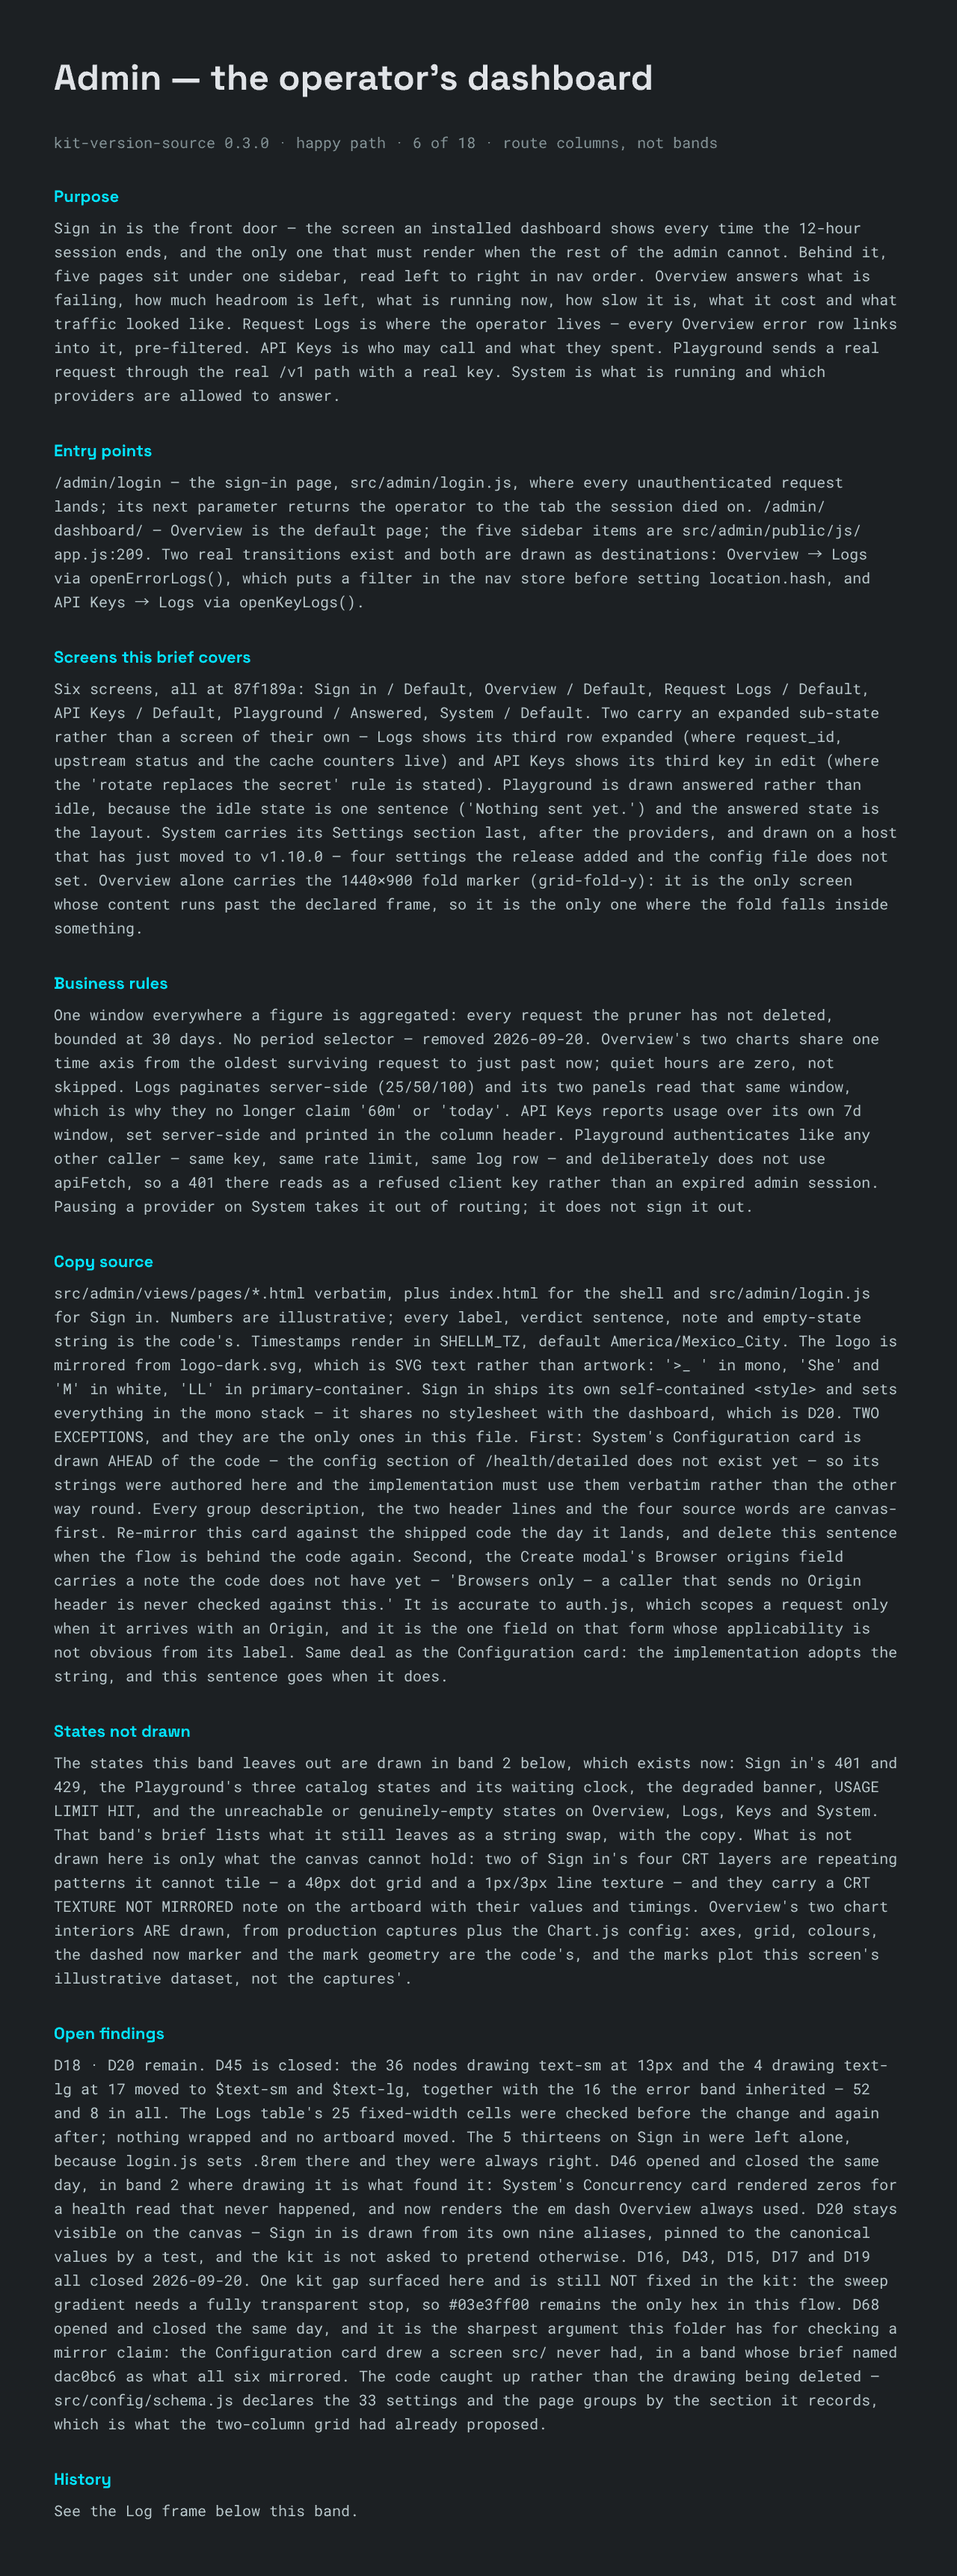
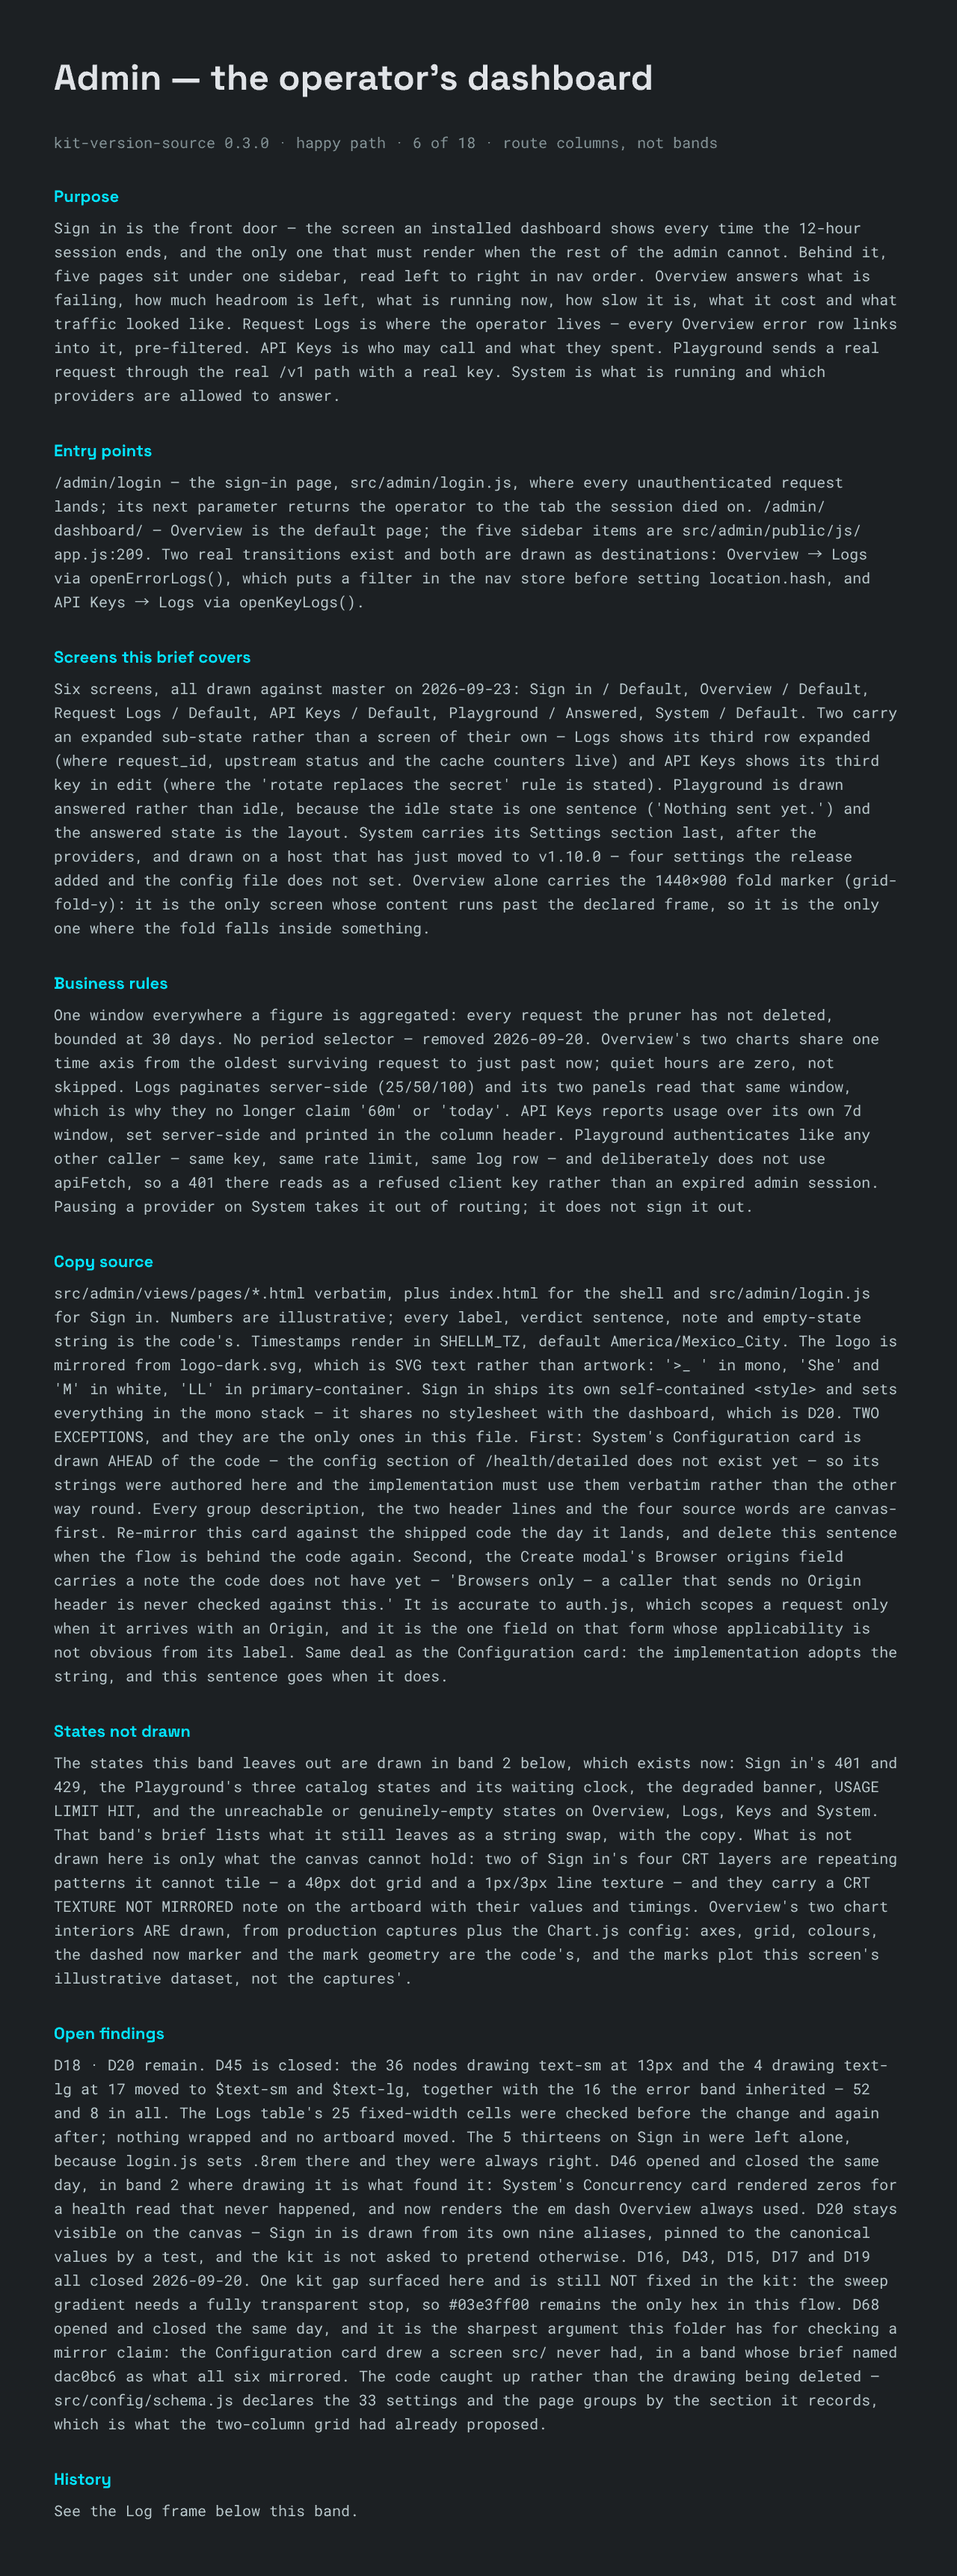
design(admin): anchor briefs to a date, and close D69
The brief named the commit its six artboards mirror. That SHA no longer exists:
this repository merges with rebase, so every branch commit is replayed under a
new id as it lands. `git merge-base --is-ancestor 87f189a master` fails, and the
commit is `da82b3c` now.

It is D68's own lesson turned on the file that recorded it, and it was not a
mistake anyone made — it is guaranteed for every design PR that names a SHA.

Briefs anchor to a date. `git log --before=<date> master` recovers the state a
date means, and a date cannot be rewritten. Naming the release was rejected: the
artboards mirror master, which runs ahead of the last tag for most of a cycle,
so citing v1.10.0 today would claim the boards match code that release does not
contain. Updating the SHA after the merge was rejected too — it works, and it
adds a post-merge step to every design PR, which is the kind of step that gets
forgotten.

The convention was implicit in the brief's own prose until now. It is written
down in design/README.md, next to the two rules it sits beside.

Changed region(s): [[0.0625, 0.2485, 0.9375, 0.3728]]

diff --git a/design/DECISIONS.md b/design/DECISIONS.md
@@ -4,7 +4,7 @@
 > notes in `ui-kit.lib.pen` cite these by number. Keep entries after resolution — record the
 > outcome instead of deleting; the reasoning is the useful part.
 
-**Status:** 21 entries · 18 resolved · 3 open · 0 🔴 high-impact · 0 🐞 unfiled bugs.
+**Status:** 22 entries · 19 resolved · 3 open · 0 🔴 high-impact · 0 🐞 unfiled bugs.
 
 **The registry collided with itself on 2026-09-20, and this is the repair.** Two documents
 claimed `D30` and `D31` the same day for different findings: the design audit's second pass took
@@ -74,6 +74,8 @@ that doc tracks landing them.
 | **D67** ⏳ | The admin has no legible disabled treatment for **text**, and the one it has reads as ordinary secondary copy. `text-outline/30` — what the Logs refresh button uses while loading ([`logs.html:52`](../src/admin/views/pages/logs.html#L52)) — resolves to roughly `#3b4346` on `surface-container`, about **1.75:1**. Fine for a glyph whose only job is to look inert; unusable for a value someone still has to read. The nearest token, `outline-variant` `#3b494c`, measures the same. | Measured 2026-09-23 while drawing the auto-refresh held state, where the interval value must stay readable *because* it is the setting that is not currently running. `outline` `#849397` on `surface-container` is **5.15:1** and passes AA, but it is also the default colour of every secondary string on the page, so on its own it signals nothing — confirmed by exporting the board and being unable to tell the two states apart. | ⏳ Open as a kit question, not a bug: nothing shipped is wrong, and WCAG exempts disabled controls anyway. What is missing is a token between `outline` and `outline-variant` for "this control is legible but not currently doing anything". The proposal band works around it with a `pause` glyph rather than a colour, which is arguably the better answer and makes the token optional. Worth deciding before a second surface needs the same state. |
 
 | **D68** ✅ | The `Configuration card` on `System / Default` drew a screen the code never had. It was not a mirror and it was not a labelled proposal — and the legend under it, *"an untagged value is the shipped default · file = `~/.config/shellm/env`"*, was `sourceOf()` drawn before any code could compute it. | Measured 2026-09-23. `git show dac0bc6:src/admin/views/pages/system.html` — the commit the band’s brief named as what all six screens mirror — carries `Build` and `Concurrency` and no third section. `git log -S "Configuration" -- src/admin/views/pages/system.html` returns no commit, so it never shipped in any release. `CODE_CHANGES.md` read *"No consolidation has been decided yet"*, so it was not tracked as pending either. The card entered in `4c8bfb3`, the same day, in a commit titled *"draw what the origins merge shipped"*. | ✅ **Closed 2026-09-23 by building it, not by deleting the drawing.** `src/config/schema.js` now declares all 33 settings with the `section` each belongs to, and the page groups by it exactly as the two-column grid proposed — the design’s answer was the better one and the code adopted it. Four things changed on canvas to match what shipped: one full-width column instead of two; all 33 rows instead of 24, because a secret is masked rather than omitted and a mask still says whether it is set and from where; five columns, since the schema made `source`, `since` and `reload` computable; and the card moved below the providers, because settings are reference data and whether claude and codex answer is what the page is opened for. The brief now names `7caf4b9`. **The transferable lesson is about the claim, not the card:** a brief that names a commit is asserting something checkable, and nothing checked it for three days. |
+
+| **D69** ✅ | A brief that names the commit its artboards mirror is wrong the moment the branch merges. `admin.pen` said *"all at `87f189a`"*; that SHA does not exist on `master`. | Measured 2026-09-23, minutes after the merge: `git merge-base --is-ancestor 87f189a master` fails, and the commit is now `da82b3c`. The repository merges with **rebase**, which replays every branch commit under a new id, so this is not a mistake anyone made — it is guaranteed for every design PR that names a SHA, including the one that closed **D68** for exactly this class of defect. | ✅ **Closed 2026-09-23. Briefs anchor to a date.** `git log --before=<date> master` recovers the state a date means, and a date cannot be rewritten. Two alternatives were rejected: naming the **release** is false for most of a cycle, because the artboards mirror `master` and `master` runs ahead of the last tag — citing `v1.10.0` today would claim the boards match code that release does not contain; and updating the SHA **after** the merge works but adds a post-merge touch-up to every design PR, which is the kind of step that gets forgotten, which is how this broke. The convention was implicit in the brief’s own prose until now and is written down in [README.md](README.md). The cost is honest: a date is a weaker claim than a SHA, and that is the price of a linear history. |
 | **D48** ✅ | Should the degraded banner animate in or out, and does that finally give `--ease-exit` a user? the motion audit predicted it would: *"exit lands with the error band — the first thing that will actually need it"*. Drawing the band is what made the question askable. | Measured in Chromium at 1440×900 against the running admin, 2026-09-20. The band is 48px + 24px margin = **72px of displacement**, inserted in one frame. Mid-page, `overflow-anchor` absorbs it completely — `scrollY` 500→572 with the tracked element unmoved at 390. At `scrollY` 0 it is one discrete 72px jump, and **every navigation lands there**, because `show()` calls `window.scrollTo(0, 0)` ([`app.js:224`](../src/admin/public/js/app.js#L224)) | ❌ **Rejected, both directions.** A prototyped 200ms height entrance was watched at `scrollY` 0: **three different table rows pass under one fixed screen point during the run** — motion may not move a target the operator is aiming at, and this is the surface whose job is reading numbers. The cheaper forms do not survive either: opacity or transform alone leaves the 72px reflow instant, so nothing is prevented and only decoration is left. Exit fails earlier, on purpose rather than on function: it would hold *"Nothing below is being updated"* on screen for 150–200ms **after it stopped being true**, which on this product is a small lie with a curve on it. Two independent secondary kills: the band is already present at first render when the page cold-loads with the gateway down, so an entrance would ramp a state that predates the page — D21's exact defect; and a measured 151ms on/off flash (two 30s pollers feeding a last-write-wins `reportRead`) becomes a visible stutter instead of a blink. **Cost of rejecting: nothing measurable.** `--ease-exit` stays undeclared, and the audit's prediction is corrected in place rather than deleted — the band is removed from flow, which is a reflow, not a departure. **Left open deliberately, and it is a layout question, not a motion one:** the 72px snap at `scrollY` 0 is a genuine defect. Reserve the slot, take the band out of flow the way the sidebar health readout already is, or accept it as one frame once per incident. Flagged for a `ui-review` pass, not decided here. |
 
 ## Real app bugs — logged here until filed on the board
@@ -175,5 +177,5 @@ is what the next decision needs.
 | D59 | `design/README.md` says this surface does not exist | Landed |
 | D60 | The API reference's logo fills the sidebar and lands on the home link | Landed in two parts — geometry, then the duplicate mark it left behind |
 
-**Next free number: D69.** D15–D20, D43–D49 and D61–D67 are this file's own and are above; D50–D60
+**Next free number: D70.** D15–D20, D43–D49 and D61–D67 are this file's own and are above; D50–D60
 are spent by the landing audit.

diff --git a/design/README.md b/design/README.md
@@ -3,6 +3,12 @@
 Everything about SheLLM's visual design — the admin dashboard — lives here. Read this before touching a `.pen`. It doubles
 as context for AI agents (`AGENTS.md` points them here).
 
+**A brief anchors to a date, never to a commit.** This repository merges with rebase, so every
+SHA a branch commit cites is rewritten the moment it lands — a brief that named one was wrong
+before anyone could read it (D69). A date survives, and `git log --before=<date> master` recovers
+the state it means. Naming the release instead is worse: the artboards mirror master, which runs
+ahead of the last tag for most of a cycle.
+
 **Two rules that matter most:**
 
 1. The **code is the source of truth** for design and layout — not old designs, not stale
